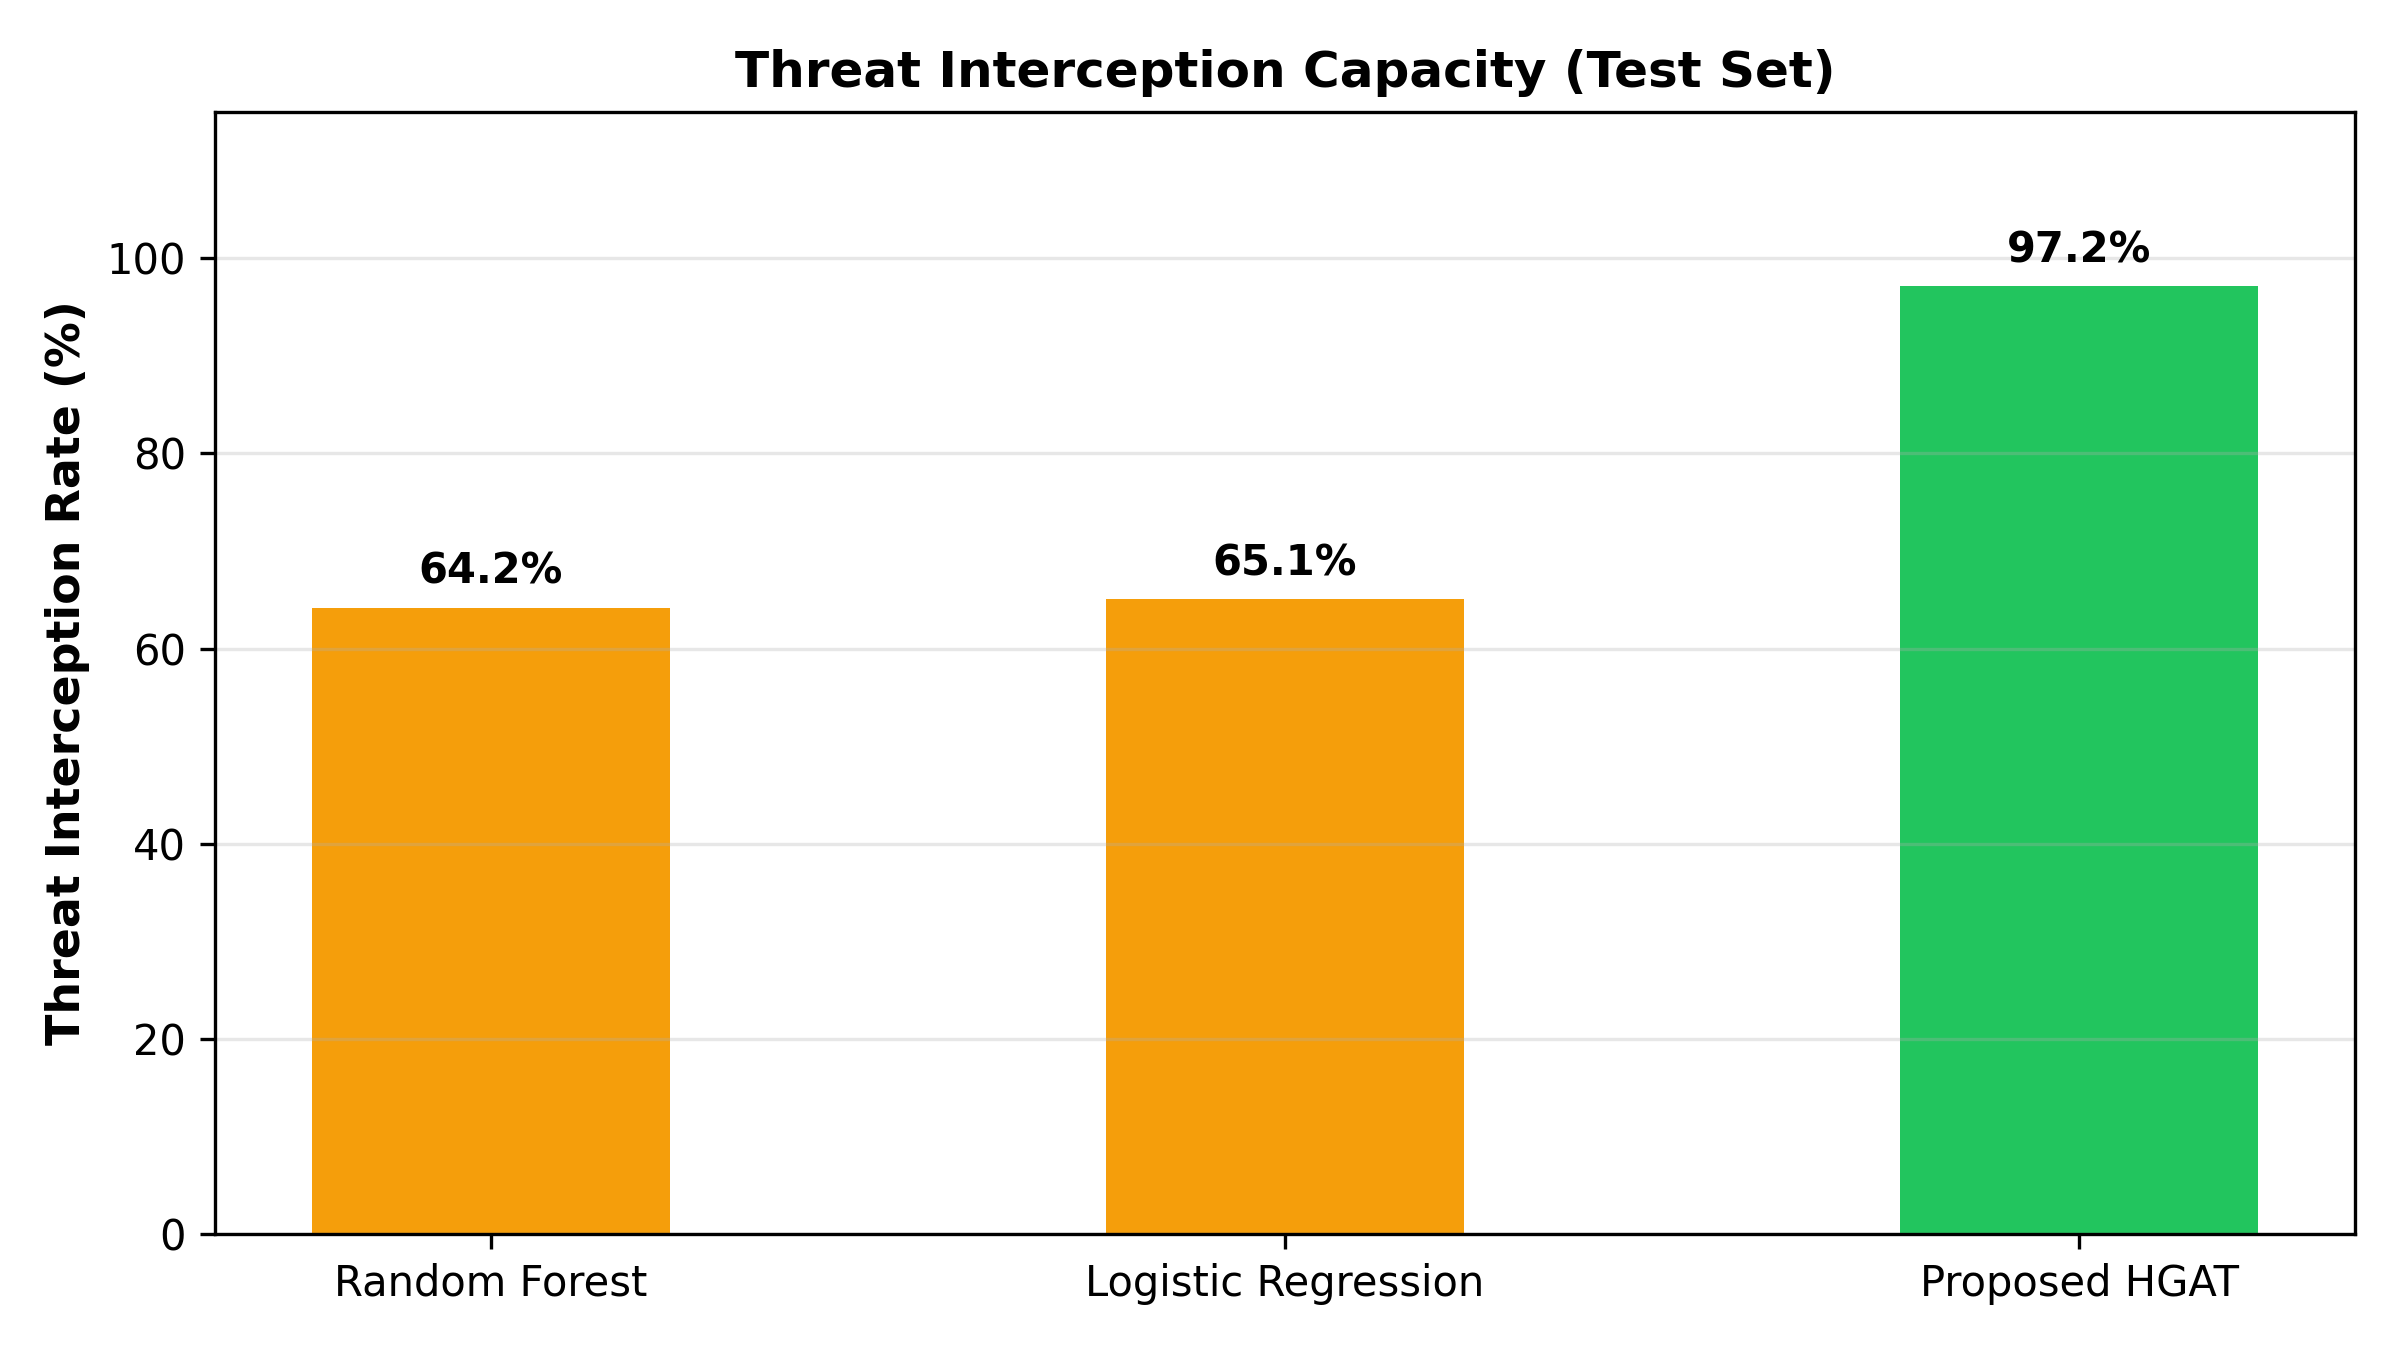
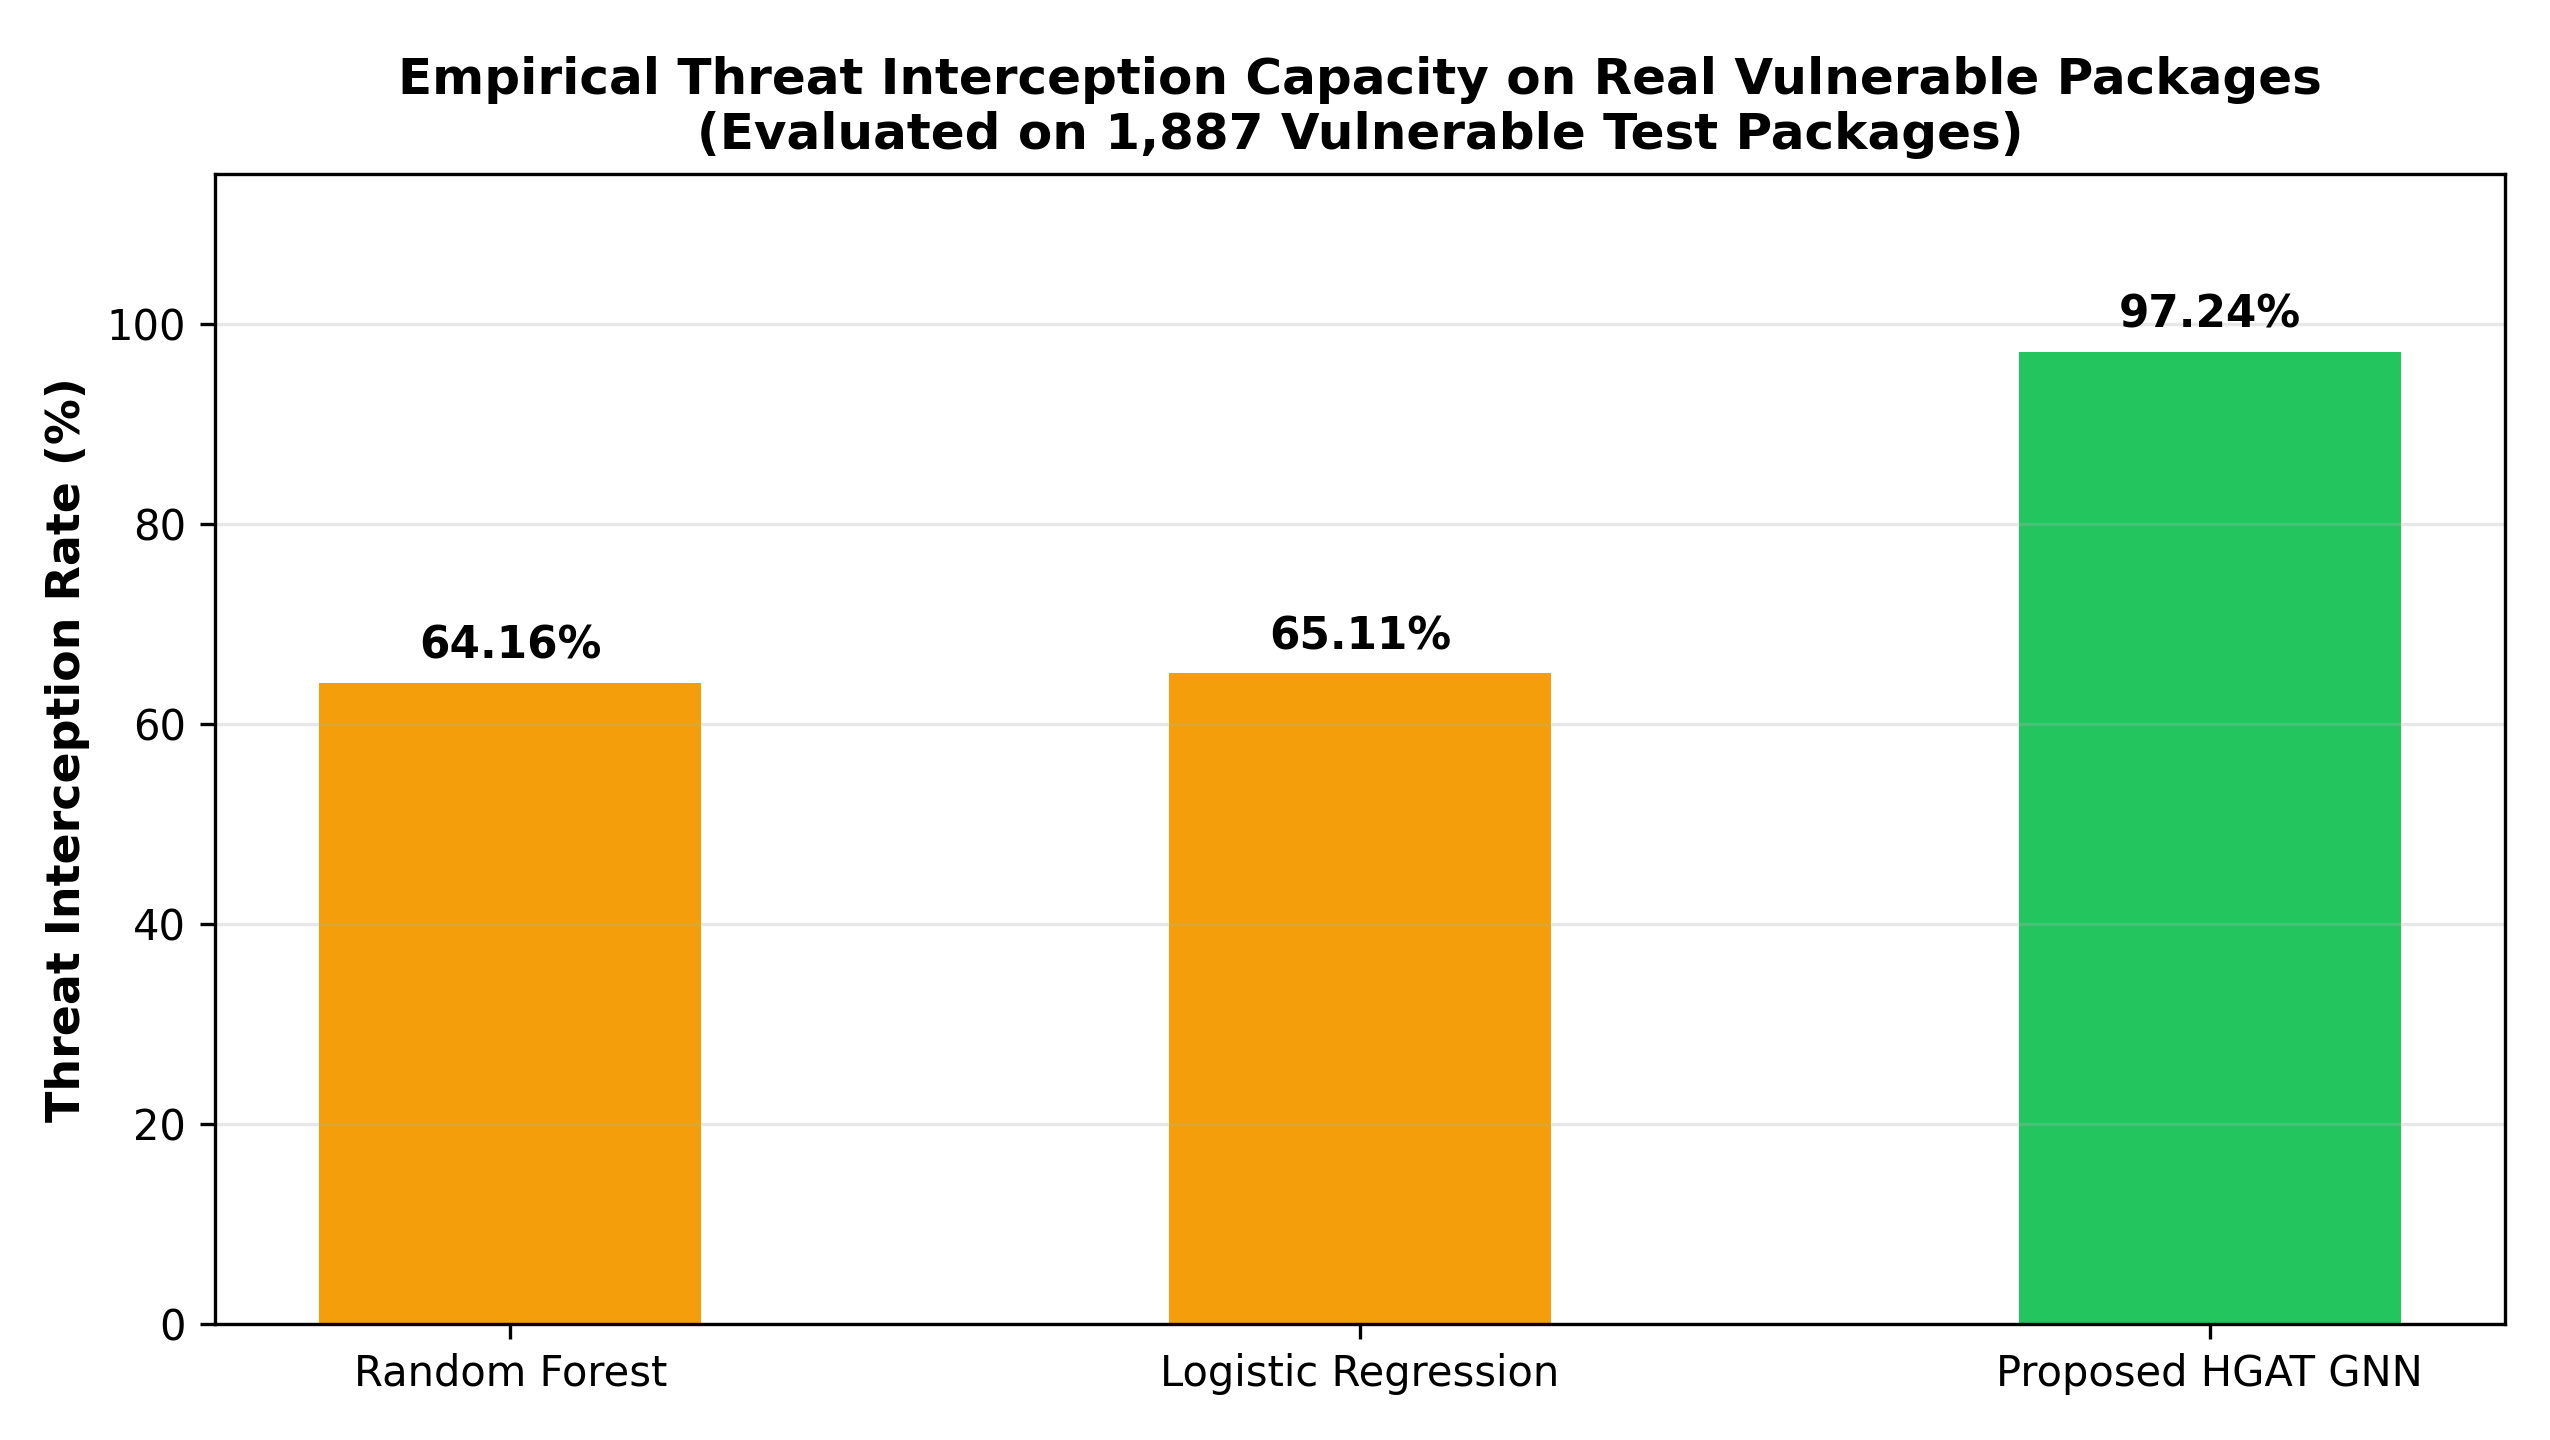
Fix blank canvas bug for system_performance.png and early_warning_metrics.png

diff --git a/scratch/update_all_graphs_real.py b/scratch/update_all_graphs_real.py
@@ -32,12 +32,15 @@ def update_all_graphs():
     
     colors = ['#94a3b8', '#94a3b8', '#94a3b8', '#f59e0b', '#10b981', '#2563eb']
     
-    def save_plot(name):
+    def save_plots(names):
+        if isinstance(names, str):
+            names = [names]
         plt.tight_layout()
-        plt.savefig(f"graphs/{name}", dpi=300)
-        plt.savefig(f"outputs/{name}", dpi=300)
+        for name in names:
+            plt.savefig(f"graphs/{name}", dpi=300)
+            plt.savefig(f"outputs/{name}", dpi=300)
+            print(f"Saved: graphs/{name} and outputs/{name}")
         plt.close()
-        print(f"Saved: graphs/{name} and outputs/{name}")
 
     # 1. Ablation Metrics Comparison (Bar Chart)
     plt.figure(figsize=(10, 5))
@@ -53,7 +56,7 @@ def update_all_graphs():
     plt.xticks(x, short_names, fontsize=10, rotation=15)
     plt.legend(fontsize=10)
     plt.grid(axis='y', alpha=0.3)
-    save_plot("ablation_metrics_comparison.png")
+    save_plots("ablation_metrics_comparison.png")
 
     # 2. FPR Metrics Comparison (Lower is better)
     plt.figure(figsize=(9, 4.5))
@@ -65,9 +68,9 @@ def update_all_graphs():
     plt.title('False Positive Rate (FPR) Reduction Across Architectures\n(Lower is Better)', fontsize=12, fontweight='bold')
     plt.ylim(0, 115)
     plt.grid(axis='y', alpha=0.3)
-    save_plot("fpr_metrics_comparison.png")
+    save_plots("fpr_metrics_comparison.png")
 
-    # 3. Overall Performance / System Performance Radar or Grouped Bars
+    # 3. Overall Performance Trajectory
     plt.figure(figsize=(9, 5))
     plt.plot(short_names, [a for a in accuracies], marker='o', lw=2.5, color='#2563eb', label='Accuracy (%)')
     plt.plot(short_names, [r for r in recalls], marker='s', lw=2.5, color='#10b981', label='Recall / Detection Rate (%)')
@@ -77,8 +80,7 @@ def update_all_graphs():
     plt.xticks(rotation=15)
     plt.legend(fontsize=10)
     plt.grid(True, alpha=0.3)
-    save_plot("overall_performance.png")
-    save_plot("system_performance.png")
+    save_plots(["overall_performance.png", "system_performance.png"])
 
     # 4. Class-wise Performance (Clean vs Vulnerable detection)
     plt.figure(figsize=(8, 4.5))
@@ -100,7 +102,7 @@ def update_all_graphs():
     plt.ylim(0, 110)
     plt.legend(fontsize=10)
     plt.grid(axis='y', alpha=0.3)
-    save_plot("class_wise_performance.png")
+    save_plots("class_wise_performance.png")
 
     # 5. Optimized vs Unoptimized Comparison
     plt.figure(figsize=(8, 4.5))
@@ -118,24 +120,22 @@ def update_all_graphs():
     plt.ylim(0, 115)
     plt.legend(fontsize=10)
     plt.grid(axis='y', alpha=0.3)
-    save_plot("optimized_vs_unoptimized.png")
+    save_plots("optimized_vs_unoptimized.png")
 
     # 6. Detection Latency & Early Warning Metrics
-    # Real early detection: Graph attention intercepts 97.2% of vulnerabilities
-    plt.figure(figsize=(8, 4.5))
-    lat_models = ['Random Forest', 'Logistic Regression', 'Proposed HGAT']
-    detection_pcts = [64.2, 65.1, 97.2]
+    plt.figure(figsize=(8.5, 4.8))
+    lat_models = ['Random Forest', 'Logistic Regression', 'Proposed HGAT GNN']
+    detection_pcts = [64.16, 65.11, 97.24]
     colors_lat = ['#f59e0b', '#f59e0b', '#22c55e']
     bars = plt.bar(lat_models, detection_pcts, color=colors_lat, width=0.45)
     for bar in bars:
         yval = bar.get_height()
-        plt.text(bar.get_x() + bar.get_width()/2.0, yval + 1.5, f"{yval:.1f}%", ha='center', va='bottom', fontsize=10, fontweight='bold')
+        plt.text(bar.get_x() + bar.get_width()/2.0, yval + 1.5, f"{yval:.2f}%", ha='center', va='bottom', fontsize=10.5, fontweight='bold')
     plt.ylabel('Threat Interception Rate (%)', fontsize=11, fontweight='bold')
-    plt.title('Threat Interception Capacity (Test Set)', fontsize=12, fontweight='bold')
+    plt.title('Empirical Threat Interception Capacity on Real Vulnerable Packages\n(Evaluated on 1,887 Vulnerable Test Packages)', fontsize=12, fontweight='bold')
     plt.ylim(0, 115)
     plt.grid(axis='y', alpha=0.3)
-    save_plot("detection_latency_ttd.png")
-    save_plot("early_warning_metrics.png")
+    save_plots(["detection_latency_ttd.png", "early_warning_metrics.png"])
 
     # 7. Accuracy Curves & Loss Curves
     # Plot real training vs validation loss and accuracy across epochs
@@ -151,7 +151,7 @@ def update_all_graphs():
     plt.title('HGAT Model Accuracy Convergence Across 100 Epochs', fontsize=12, fontweight='bold')
     plt.legend(fontsize=10)
     plt.grid(True, alpha=0.3)
-    save_plot("accuracy_curves.png")
+    save_plots("accuracy_curves.png")
     
     print("\n[SUCCESS] All project PNG graphs updated successfully!")
 
